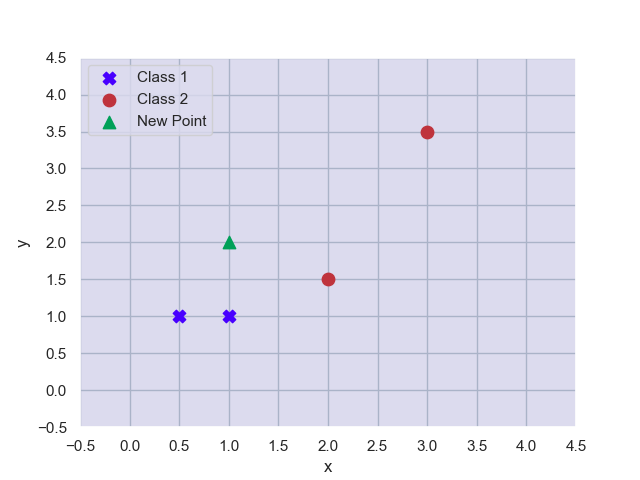
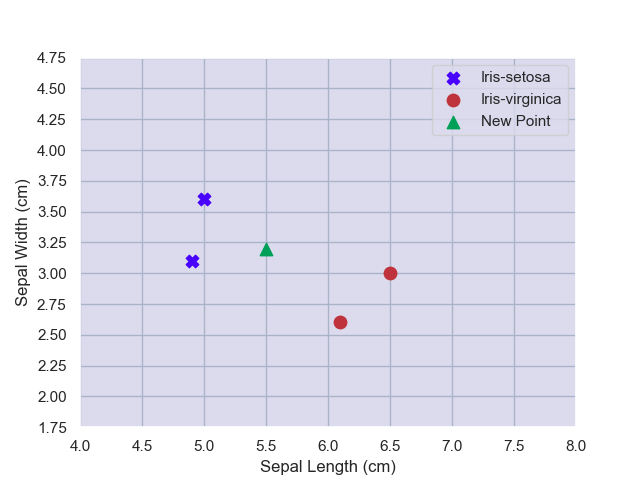
improve knn diagrams

diff --git a/problems/knn/main.py b/problems/knn/main.py
@@ -1,14 +1,17 @@
 import numpy as np
+import pandas as pd
 import matplotlib.pyplot as plt
 import seaborn as sns
 from pathlib import Path
 
 
 SCRIPT_PATH = Path(__file__).parent
-XLIM = (-0.5, 4.5)
-YLIM = (-0.5, 4.5)
-XTICKS = np.arange(XLIM[0], XLIM[1] + 0.5, 0.5)
-YTICKS = np.arange(YLIM[0], YLIM[1] + 0.5, 0.5)
+XLIM = (4, 8)
+YLIM = (1.75, 4.75)
+XSTEP = 0.5
+YSTEP = 0.25
+XTICKS = np.arange(XLIM[0], XLIM[1] + XSTEP, XSTEP)
+YTICKS = np.arange(YLIM[0], YLIM[1] + YSTEP, YSTEP)
 CLASS_1_COLOR = '#4800FF'
 CLASS_2_COLOR = '#BF333C'
 NEW_POINT_COLOR = '#00A058'
@@ -19,7 +22,7 @@ CLASS_1_MARKER = 'X'
 CLASS_2_MARKER = 'o'
 NEW_POINT_MARKER = '^'
 MARKER_SIZE = 80
-NEIGHBOURS_RADIUS_SCALE = 1.2
+NEIGHBOURS_RADIUS_SCALE = 1.1
 NEIGHBOURS_LINEWIDTH = 3
 SNS_STYLE = {
     'grid.color': '#AAB3C8',
@@ -27,11 +30,30 @@ SNS_STYLE = {
     'figure.facecolor' :'none',
 }
 DPI = 100
+SEED = 69
 
 
-def plot_knn(ax, class_1, class_2, new_point, show_neighbours=True):
+def load_iris_data():
+    return pd.read_csv(SCRIPT_PATH / 'Iris.csv')
+
+
+def plot_knn(
+    ax,
+    class_1,
+    class_1_label,
+    class_2,
+    class_2_label,
+    x_label,
+    y_label,
+    new_point=None,
+    new_point_label=None,
+    k=None,
+    show_neighbours=True,
+):
     if show_neighbours:
-        neighbours = np.concatenate((class_1, [class_2[0], new_point]))
+        all_classes = np.vstack((class_1, class_2))
+        distances = np.linalg.norm(all_classes - new_point, axis=1)
+        neighbours = all_classes[np.argsort(distances)[:k]]
         neighbours_center = np.mean(neighbours, axis=0)
         neighbours_radius = np.amax(np.linalg.norm(neighbours - neighbours_center, axis=1)) * NEIGHBOURS_RADIUS_SCALE
 
@@ -39,8 +61,8 @@ def plot_knn(ax, class_1, class_2, new_point, show_neighbours=True):
     ax.set_ylim(YLIM)
     ax.set_xticks(XTICKS)
     ax.set_yticks(YTICKS)
-    ax.set_xlabel('x')
-    ax.set_ylabel('y')
+    ax.set_xlabel(x_label)
+    ax.set_ylabel(y_label)
 
     ax.scatter(
         class_1[:, 0],
@@ -49,7 +71,7 @@ def plot_knn(ax, class_1, class_2, new_point, show_neighbours=True):
         marker=CLASS_1_MARKER,
         s=MARKER_SIZE,
         alpha=ALPHA,
-        label='Class 1',
+        label=class_1_label,
     )
     ax.scatter(
         class_2[:, 0],
@@ -58,17 +80,18 @@ def plot_knn(ax, class_1, class_2, new_point, show_neighbours=True):
         marker=CLASS_2_MARKER,
         s=MARKER_SIZE,
         alpha=ALPHA,
-        label='Class 2',
+        label=class_2_label,
     )
-    ax.scatter(
-        new_point[0],
-        new_point[1],
-        color=NEW_POINT_COLOR,
-        marker=NEW_POINT_MARKER,
-        s=MARKER_SIZE,
-        alpha=ALPHA,
-        label='New Point',
-    )
+    if new_point is not None:
+        ax.scatter(
+            new_point[0],
+            new_point[1],
+            color=NEW_POINT_COLOR,
+            marker=NEW_POINT_MARKER,
+            s=MARKER_SIZE,
+            alpha=ALPHA,
+            label=new_point_label,
+        )
 
     if show_neighbours:
         ax.add_patch(
@@ -82,21 +105,77 @@ def plot_knn(ax, class_1, class_2, new_point, show_neighbours=True):
             )
         )
 
-    ax.legend(loc='upper left')
+    ax.legend()
 
 
 if __name__ == '__main__':
     sns.set_theme()
     sns.set_style('darkgrid', SNS_STYLE)
 
-    class_1 = np.array([(0.5, 1), (1, 1)])
-    class_2 = np.array([(2, 1.5), (3, 3.5)])
-    new_point = (1, 2)
+    iris = load_iris_data()
+    class_1_label = 'Iris-setosa'
+    class_2_label = 'Iris-virginica'
+    setosa = iris.loc[iris['Species'] == class_1_label]
+    virginica = iris.loc[iris['Species'] == class_2_label]
+    x_col = 'SepalLengthCm'
+    y_col = 'SepalWidthCm'
+
+    setosa_samples = setosa.sample(n=2, random_state=SEED)
+    virginica_samples = virginica.sample(n=2, random_state=SEED)
+
+    class_1 = setosa_samples[[x_col, y_col]].to_numpy(dtype=np.float64)
+    class_2 = virginica_samples[[x_col, y_col]].to_numpy(dtype=np.float64)
+    new_point = np.array([5.5, 3.2], dtype=np.float64)
+    x_label = 'Sepal Length (cm)'
+    y_label = 'Sepal Width (cm)'
 
     fig, ax = plt.subplots(1)
-    plot_knn(ax, class_1, class_2, new_point, show_neighbours=False)
+    plot_knn(
+        ax,
+        class_1=class_1,
+        class_1_label=class_1_label,
+        class_2=class_2,
+        class_2_label=class_2_label,
+        x_label=x_label,
+        y_label=y_label,
+        new_point=new_point,
+        new_point_label='New Point',
+        k=3,
+        show_neighbours=False,
+    )
     plt.savefig(SCRIPT_PATH / 'knn.png', dpi=DPI)
 
     fig, ax = plt.subplots(1)
-    plot_knn(ax, class_1, class_2, new_point, show_neighbours=True)
+    plot_knn(
+        ax,
+        class_1=class_1,
+        class_1_label=class_1_label,
+        class_2=class_2,
+        class_2_label=class_2_label,
+        x_label=x_label,
+        y_label=y_label,
+        new_point=new_point,
+        new_point_label='New Point',
+        k=3,
+        show_neighbours=True,
+    )
     plt.savefig(SCRIPT_PATH / 'knn_neighbours.png', dpi=DPI)
+
+    class_1 = setosa[[x_col, y_col]].to_numpy(dtype=np.float64)
+    class_2 = virginica[[x_col, y_col]].to_numpy(dtype=np.float64)
+
+    fig, ax = plt.subplots(1)
+    plot_knn(
+        ax,
+        class_1=class_1,
+        class_1_label=class_1_label,
+        class_2=class_2,
+        class_2_label=class_2_label,
+        x_label=x_label,
+        y_label=y_label,
+        new_point=new_point,
+        new_point_label='New Point',
+        k=8,
+        show_neighbours=False,
+    )
+    plt.savefig(SCRIPT_PATH / 'knn_all.png', dpi=DPI)
